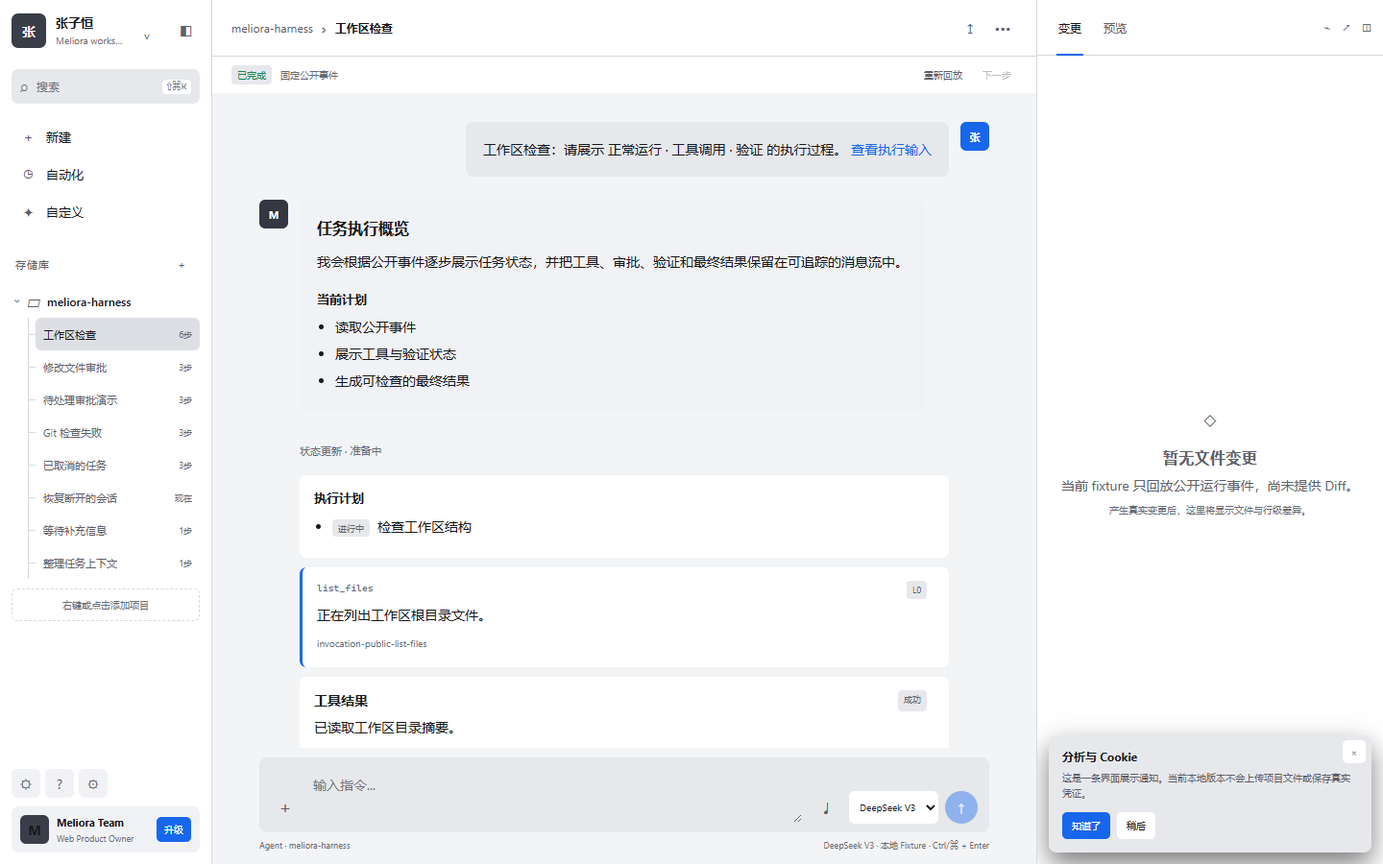
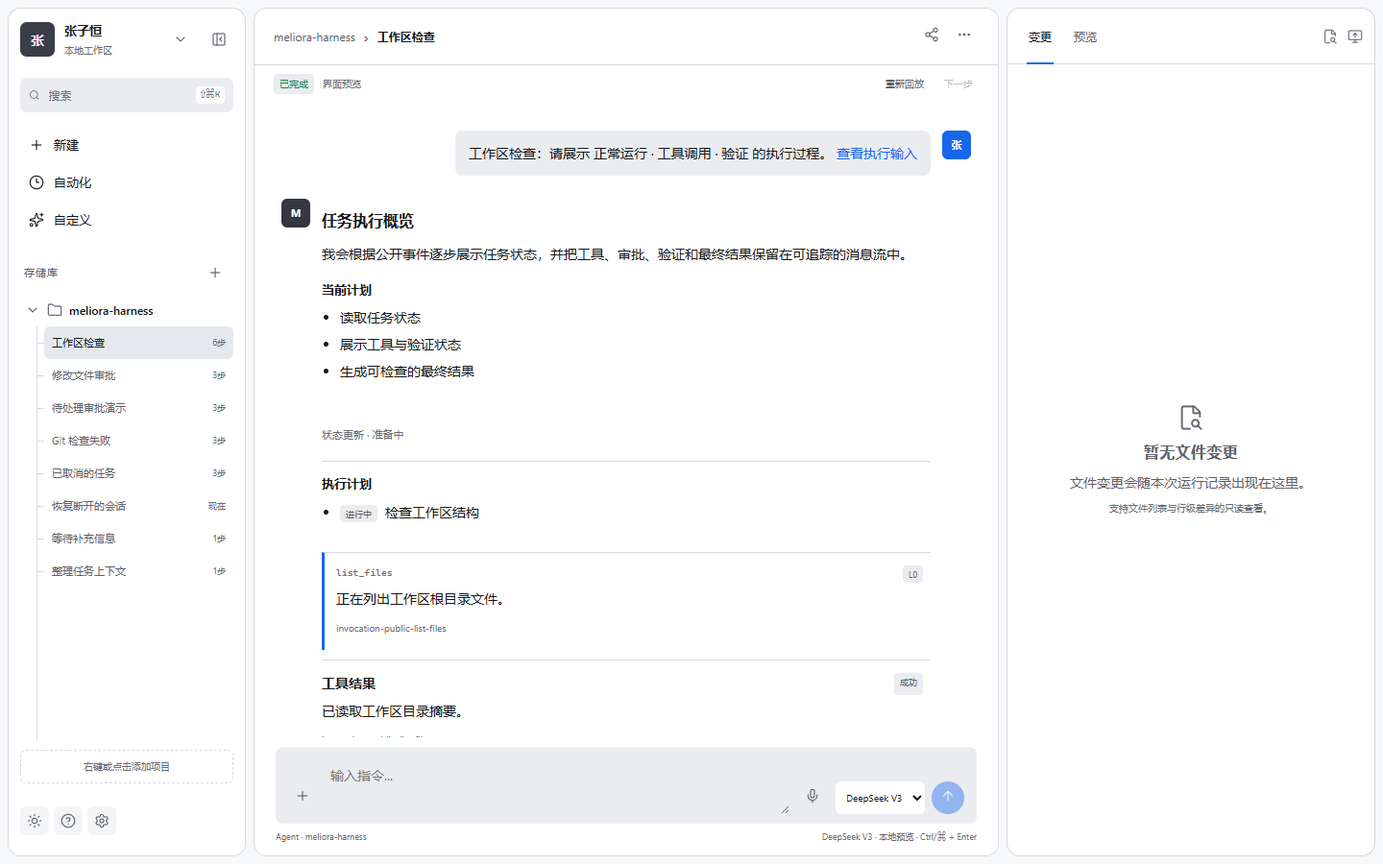
feat(web): integrate desktop workspace visuals

diff --git a/apps/web/src/main.tsx b/apps/web/src/main.tsx
@@ -1,5 +1,6 @@
 import React, { useEffect, useRef, useState } from "react";
 import { createRoot } from "react-dom/client";
+import { ArrowUp, Copy, Menu, Mic, MoreHorizontal, PanelRightOpen, Plus, Share2, Sparkles, ThumbsDown, ThumbsUp, X } from "lucide-react";
 import type { PublicRunEvent } from "../../../packages/agent-runtime/public-events";
 import { Sidebar } from "./Sidebar";
 import { RightPanel } from "./RightPanel";
@@ -31,7 +32,6 @@ function App() {
   const [collapsed, setCollapsed] = useState(false);
   const [mobilePanel, setMobilePanel] = useState<"nav" | "code" | null>(null);
   const [notice, setNotice] = useState("");
-  const [noticeVisible, setNoticeVisible] = useState(true);
   const [voiceActive, setVoiceActive] = useState(false);
   const [modelName, setModelName] = useState("DeepSeek V3");
   const [reaction, setReaction] = useState<"like" | "dislike" | "">("");
@@ -150,14 +150,14 @@ function App() {
     setLibrary(next);
     selectChat(next.projects.at(-1)!.chats[0]);
     setDialogMode(null);
-    setNotice("项目已加入本地项目库。当前演示不会上传或修改文件。");
+    setNotice("项目已加入本地项目库。");
   }
 
   function replay() {
     setEventCount(0);
     setDecision("");
     setPlaying(true);
-    setNotice("正在从固定公开事件开始回放。");
+    setNotice("正在回放本地预览状态。");
   }
 
   function send() {
@@ -184,7 +184,7 @@ function App() {
       case "tool_result_presented": return <section className={`event-card ${event.payload.status}`}><div><strong>工具结果</strong><span className="pill">{labels[event.payload.status]}</span></div><p>{event.payload.summary}</p><small>{event.payload.invocationId}</small></section>;
       case "approval_requested": {
         const expired = Boolean(event.payload.expiresAt && Date.parse(event.payload.expiresAt) <= Date.now());
-        return <section className="event-card approval"><h3>需要审批</h3><p>{event.payload.summary}</p><code>{event.payload.argumentsHash}</code>{expired && <p className="expired-approval">此历史审批已过期，当前仅供查看。</p>}<div className="inline-actions"><button className="primary" disabled={expired || Boolean(decision)} onClick={() => setDecision("已允许本次（演示，不会执行修改）。")}>允许本次</button><button disabled={expired || Boolean(decision)} onClick={() => setDecision("已拒绝（演示）。")}>拒绝</button></div>{decision && <p role="status">{decision}</p>}</section>;
+        return <section className="event-card approval"><h3>需要审批</h3><p>{event.payload.summary}</p><code>{event.payload.argumentsHash}</code>{expired && <p className="expired-approval">此历史审批已过期，当前仅供查看。</p>}<div className="inline-actions"><button className="primary" disabled={expired || Boolean(decision)} onClick={() => setDecision("已记录允许选择，当前预览不会执行修改。")}>允许本次</button><button disabled={expired || Boolean(decision)} onClick={() => setDecision("已记录拒绝选择，当前预览不会执行修改。")}>拒绝</button></div>{decision && <p role="status">{decision}</p>}</section>;
       }
       case "verification_updated": return <p className="event-line success">验证 · {labels[event.payload.status]} · {event.payload.verificationId}</p>;
       case "context_compacted": return <section className="event-card"><h3>上下文已整理</h3><p>{event.payload.summary}</p></section>;
@@ -200,15 +200,15 @@ function App() {
     <aside className="left-panel"><Sidebar library={library} collapsed={collapsed} theme={theme} userName={userName} userAvatar={userAvatar} onSelect={(id) => { openChat(id); setMobilePanel(null); }} onCollapse={() => window.innerWidth <= 768 ? setMobilePanel(null) : setCollapsed((value) => !value)} onNewAgent={() => { createAgent(); setMobilePanel(null); }} onNewProject={() => showDialog("project")} onTheme={setTheme} onAutomations={() => showDialog("automations")} onCustomize={() => showDialog("customize")} onReveal={() => setMobilePanel("nav")}/></aside>
 
     <main className="center-panel">
-      <header className="conversation-header"><button className="mobile-panel-button mobile-nav-trigger" aria-label="打开导航" onClick={() => setMobilePanel("nav")}>☰</button><div><span>{activeProject.name}</span><b>›</b><strong>{activeChat.title}</strong></div><nav aria-label="对话操作"><button className="mobile-panel-button mobile-code-trigger" aria-label="打开代码面板" onClick={() => setMobilePanel("code")}>⌘</button><button aria-label="分享" onClick={() => setNotice("分享功能等待真实服务接入。")}>↥</button><button aria-label="更多操作" onClick={() => setNotice("更多操作将在下一版接入。")}>•••</button></nav></header>
-      <div className="run-bar"><span className={`run-status ${runStatus}`}>{playing ? "生成中" : labels[runStatus]}</span><span>固定公开事件</span><button onClick={replay}>重新回放</button><button disabled={playing || eventCount >= source.length} onClick={() => setEventCount((count) => count + 1)}>下一步</button></div>
+      <header className="conversation-header"><button className="mobile-panel-button mobile-nav-trigger" aria-label="打开导航" onClick={() => setMobilePanel("nav")}><Menu /></button><div><span>{activeProject.name}</span><b>›</b><strong>{activeChat.title}</strong></div><nav aria-label="对话操作"><button className="mobile-panel-button mobile-code-trigger" aria-label="打开代码面板" onClick={() => setMobilePanel("code")}><PanelRightOpen /></button><button aria-label="分享" onClick={() => setNotice("分享将在连接协作服务后可用。")}><Share2 /></button><button aria-label="更多操作" onClick={() => setNotice("更多对话操作即将提供。")}><MoreHorizontal /></button></nav></header>
+      <div className="run-bar"><span className={`run-status ${runStatus}`}>{playing ? "生成中" : labels[runStatus]}</span><span>界面预览</span><button onClick={replay}>重新回放</button><button disabled={playing || eventCount >= source.length} onClick={() => setEventCount((count) => count + 1)}>下一步</button></div>
 
       <section className="message-stream" aria-label="消息流">
         <div className="message-column">
-          {showEmpty && <section className="timeline-empty" aria-labelledby="empty-title"><span aria-hidden="true">✦</span><h2 id="empty-title">开始一个新任务</h2><p>输入目标后，公开运行事件会在这里逐步呈现。</p><button onClick={() => composerInput.current?.focus()}>在输入框中开始</button></section>}
+          {showEmpty && <section className="timeline-empty" aria-labelledby="empty-title"><span aria-hidden="true"><Sparkles /></span><h2 id="empty-title">开始一个新任务</h2><p>输入目标后，任务状态会在这里逐步呈现。</p><button onClick={() => composerInput.current?.focus()}>在输入框中开始</button></section>}
           {messages.map((item) => <article className={`message ${item.role}`} key={item.id}>
             <span className="message-author">{item.role === "assistant" ? "M" : userAvatar}</span>
-            <div className="message-body">{item.role === "assistant" ? <><h2>任务执行概览</h2><p>{item.content}</p><h3>当前计划</h3><ul><li>读取公开事件</li><li>展示工具与验证状态</li><li>生成可检查的最终结果</li></ul><div className="message-actions"><button onClick={() => setNotice("已复制消息摘要（演示）。")}>□ 复制</button><button aria-pressed={reaction === "like"} onClick={() => setReaction("like")}>♡ 点赞</button><button aria-pressed={reaction === "dislike"} onClick={() => setReaction("dislike")}>▽ 点踩</button></div></> : <p>{item.content} <a href="#composer">查看执行输入</a></p>}</div>
+            <div className="message-body">{item.role === "assistant" ? <><h2>任务执行概览</h2><p>{item.content}</p><h3>当前计划</h3><ul><li>读取任务状态</li><li>展示工具与验证状态</li><li>生成可检查的最终结果</li></ul><div className="message-actions"><button onClick={() => setNotice("已复制消息摘要。")}><Copy />复制</button><button aria-pressed={reaction === "like"} onClick={() => setReaction("like")}><ThumbsUp />点赞</button><button aria-pressed={reaction === "dislike"} onClick={() => setReaction("dislike")}><ThumbsDown />点踩</button></div></> : <p>{item.content} <a href="#composer">查看执行输入</a></p>}</div>
           </article>)}
           {scenarioId === "reconnecting" && <aside className="reconnect-banner"><strong>连接恢复</strong><span>从事件序号 {resumePoint(scenarioId)} 之后继续，不创建新任务。</span></aside>}
           {showLoading && <section className="timeline-loading" aria-live="polite" aria-busy="true"><span className="loading-avatar"/><div><span/><span/><span/></div><p>{playing ? "正在读取公开事件…" : "等待公开事件…"}</p></section>}
@@ -216,23 +216,23 @@ function App() {
         </div>
       </section>
 
-      <footer className="composer-area">{notice && <p className="notice" role="status">{notice}</p>}<form onSubmit={(event) => { event.preventDefault(); send(); }}>
-        <button type="button" className="attachment-button" aria-label="添加附件" onClick={() => setNotice("附件功能等待文件服务接入。")}>＋</button>
+      <footer className="composer-area">{notice && <p className="notice" role="status">{notice}</p>}<form className={playing ? "is-thinking" : undefined} onSubmit={(event) => { event.preventDefault(); send(); }}>
+        <button type="button" className="attachment-button" aria-label="添加附件" onClick={() => setNotice("附件将在文件服务连接后可用。")}><Plus /></button>
         <label className="sr-only" htmlFor="composer">输入指令</label>
         <textarea ref={composerInput} id="composer" maxLength={20_000} value={draft} onChange={(event) => setDraft(event.target.value)} placeholder="输入指令..." onKeyDown={(event) => { if (event.key === "Enter" && (event.ctrlKey || event.metaKey) && !event.nativeEvent.isComposing) { event.preventDefault(); send(); } }}/>
-        <button type="button" className={`voice-button ${voiceActive ? "active" : ""}`} aria-label="语音输入" aria-pressed={voiceActive} onClick={() => setVoiceActive((value) => !value)}>♩</button>
+        <button type="button" className={`voice-button ${voiceActive ? "active" : ""}`} aria-label="语音输入" aria-pressed={voiceActive} onClick={() => setVoiceActive((value) => !value)}><Mic /></button>
         <label className="model-picker"><span className="sr-only">模型</span><select value={modelName} onChange={(event) => setModelName(event.target.value)}><option>DeepSeek V3</option><option>Kimi K2</option><option>MiniMax M2</option></select></label>
-        <button className="send-button" aria-label="发送" disabled={!draft.trim() || playing}>↑</button>
-      </form><div className="composer-meta"><span>Agent · {activeProject.name}</span><span>{modelName} · 本地 Fixture · Ctrl/⌘ + Enter</span></div></footer>
+        <button className="send-button" aria-label="发送" disabled={!draft.trim() || playing}><ArrowUp /></button>
+      </form><div className="composer-meta"><span>Agent · {activeProject.name}</span><span>{modelName} · 本地预览 · Ctrl/⌘ + Enter</span></div></footer>
     </main>
 
     <button className="mobile-backdrop" aria-label="关闭侧面板" onClick={() => setMobilePanel(null)}/>
-    <aside className="right-panel"><button className="mobile-close" aria-label="关闭代码面板" onClick={() => setMobilePanel(null)}>×</button><RightPanel projectName={activeProject.name} chatTitle={activeChat.title} noticeVisible={noticeVisible} onCloseNotice={() => setNoticeVisible(false)}/></aside>
+    <aside className="right-panel"><button className="mobile-close" aria-label="关闭代码面板" onClick={() => setMobilePanel(null)}><X /></button><RightPanel projectName={activeProject.name} chatTitle={activeChat.title}/></aside>
 
     <dialog ref={settingsDialog} className="settings-dialog" onCancel={() => setDialogMode(null)}>
-      <button className="dialog-close" onClick={() => setDialogMode(null)}>×</button>
+      <button className="dialog-close" aria-label="关闭设置" onClick={() => setDialogMode(null)}><X /></button>
       {dialogMode === "project" && <><h2>添加项目</h2><p>当前纯浏览器版本不申请工作区目录权限。工作区选择将在 Runtime/Server 能力接入后提供。</p><form onSubmit={(event) => { event.preventDefault(); createProject(projectName, "manual"); }}><label htmlFor="project-name">项目名称</label><input id="project-name" value={projectName} maxLength={200} onChange={(event) => setProjectName(event.target.value)} placeholder="例如：个人网站"/><button className="primary" disabled={!projectName.trim()}>创建项目</button></form><small>这里只保存项目名称，不读取、上传或修改本地文件。</small></>}
-      {dialogMode === "automations" && <><h2>自动化</h2><p>这里将展示定时任务和运行状态。当前版本尚未连接调度服务。</p><button onClick={() => { setDialogMode(null); createAgent(); }}>先开始一个对话</button></>}
+      {dialogMode === "automations" && <><h2>自动化</h2><p>这里将展示定时任务和运行状态。连接调度服务后即可管理自动化任务。</p><button onClick={() => { setDialogMode(null); createAgent(); }}>先开始一个对话</button></>}
       {dialogMode === "customize" && <><h2>自定义</h2><form onSubmit={(event) => { event.preventDefault(); setUserName(profileName.trim() || "本地用户"); setUserAvatar(profileAvatar); setDialogMode(null); }}><label htmlFor="user-name">用户昵称</label><input id="user-name" value={profileName} maxLength={32} onChange={(event) => setProfileName(event.target.value)}/><label>头像</label><div className="avatar-options">{["张", "M", "🌱", "🐱", "🚀"].map((avatar) => <button type="button" key={avatar} aria-pressed={profileAvatar === avatar} onClick={() => setProfileAvatar(avatar)}>{avatar}</button>)}</div><button className="primary">保存</button></form></>}
     </dialog>
   </div>;

diff --git a/apps/web/src/Sidebar.tsx b/apps/web/src/Sidebar.tsx
@@ -1,4 +1,19 @@
 import React, { useEffect, useRef, useState } from "react";
+import {
+  ChevronDown,
+  ChevronRight,
+  Clock3,
+  Folder,
+  HelpCircle,
+  Moon,
+  PanelLeftClose,
+  PanelLeftOpen,
+  Plus,
+  Search,
+  Settings,
+  Sparkles,
+  Sun,
+} from "lucide-react";
 import type { Library } from "./projects";
 
 interface SidebarProps {
@@ -64,28 +79,28 @@ export function Sidebar(props: SidebarProps) {
   return <>
       <div className="sidebar-user">
       <span className="user-avatar" role="img" aria-label={`${userName} 的头像`}>{props.userAvatar}</span>
-      <span className="user-copy"><strong>{userName}</strong><small>Meliora workspace</small></span>
-      <button className="icon-button" aria-label="打开用户菜单" onClick={props.onCustomize}>⌄</button>
-      <button className="icon-button collapse-button" aria-label={props.collapsed ? "展开侧栏" : "收起侧栏"} aria-expanded={!props.collapsed} onClick={props.onCollapse}>◧</button>
+      <span className="user-copy"><strong>{userName}</strong><small>本地工作区</small></span>
+      <button className="icon-button" aria-label="打开用户菜单" onClick={props.onCustomize}><ChevronDown /></button>
+      <button className="icon-button collapse-button" aria-label={props.collapsed ? "展开侧栏" : "收起侧栏"} aria-expanded={!props.collapsed} onClick={props.onCollapse}>{props.collapsed ? <PanelLeftOpen /> : <PanelLeftClose />}</button>
     </div>
 
     <div className="sidebar-scroll">
-      <label className="search-field"><span aria-hidden="true">⌕</span><input ref={searchInput} aria-label="搜索项目和对话" placeholder="搜索" value={search} onChange={(event) => setSearch(event.target.value)}/><kbd title="Ctrl/⌘ + Shift + K">⇧⌘K</kbd></label>
+      <label className="search-field"><Search aria-hidden="true"/><input ref={searchInput} aria-label="搜索项目和对话" placeholder="搜索" value={search} onChange={(event) => setSearch(event.target.value)}/><kbd title="Ctrl/⌘ + Shift + K">⇧⌘K</kbd></label>
       <nav className="quick-actions" aria-label="快捷操作">
-        <button aria-label="新建对话" onClick={props.onNewAgent}><span>＋</span>新建</button>
-        <button onClick={props.onAutomations}><span>◷</span>自动化</button>
-        <button onClick={props.onCustomize}><span>✦</span>自定义</button>
+        <button aria-label="新建对话" onClick={props.onNewAgent}><Plus />新建</button>
+        <button onClick={props.onAutomations}><Clock3 />自动化</button>
+        <button onClick={props.onCustomize}><Sparkles />自定义</button>
       </nav>
 
       <section className="repository-list" aria-label="存储库" ref={libraryRegion} tabIndex={0}
         onContextMenu={(event) => { event.preventDefault(); openProjectMenu(event.clientX, event.clientY); }}
         onKeyDown={(event) => { if (event.key === "ContextMenu" || (event.shiftKey && event.key === "F10")) { event.preventDefault(); const rect = event.currentTarget.getBoundingClientRect(); openProjectMenu(rect.left + 18, rect.top + 38); } }}>
-        <div className="section-title"><span>存储库</span><button className="icon-button" aria-label="添加存储库" onClick={props.onNewProject}>＋</button></div>
+        <div className="section-title"><span>存储库</span><button className="icon-button" aria-label="添加存储库" onClick={props.onNewProject}><Plus /></button></div>
         {visibleProjects.map((project) => {
           const expanded = !closedProjects.includes(project.id) || Boolean(query);
           return <div className="repository" key={project.id}>
             <button className="repository-title" aria-expanded={expanded} onClick={() => setClosedProjects((ids) => ids.includes(project.id) ? ids.filter((id) => id !== project.id) : [...ids, project.id])}>
-              <span className={`chevron ${expanded ? "expanded" : ""}`}>›</span><span aria-hidden="true">▱</span><strong>{project.name}</strong>
+              <span className={`chevron ${expanded ? "expanded" : ""}`}>{expanded ? <ChevronDown /> : <ChevronRight />}</span><Folder aria-hidden="true"/><strong>{project.name}</strong>
             </button>
             <div className={`chat-tree ${expanded ? "expanded" : ""}`}><nav aria-label={`${project.name} 的对话`}>
               {project.chats.filter((chat) => !query || project.name.toLocaleLowerCase().includes(query) || chat.title.toLocaleLowerCase().includes(query)).map((chat) =>
@@ -100,24 +115,23 @@ export function Sidebar(props: SidebarProps) {
       </section>
     </div>
 
-    <div className="sidebar-footer">
+      <div className="sidebar-footer">
       <div className="footer-tools">
-        <button className="icon-button" aria-label={props.theme === "dark" ? "切换到浅色主题" : "切换到深色主题"} onClick={() => props.onTheme(props.theme === "dark" ? "light" : "dark")}>{props.theme === "dark" ? "☾" : "☼"}</button>
-        <button className="icon-button" aria-label="支持">?</button>
-        <button className="icon-button" aria-label="设置" onClick={props.onCustomize}>⚙</button>
+        <button className="icon-button" aria-label={props.theme === "dark" ? "切换到浅色主题" : "切换到深色主题"} onClick={() => props.onTheme(props.theme === "dark" ? "light" : "dark")}>{props.theme === "dark" ? <Moon /> : <Sun />}</button>
+        <button className="icon-button" aria-label="支持"><HelpCircle /></button>
+        <button className="icon-button" aria-label="设置" onClick={props.onCustomize}><Settings /></button>
       </div>
       <nav className="collapsed-rail" aria-label="折叠导航">
-        <button aria-label="新建对话" title="新建对话" onClick={props.onNewAgent}>＋</button>
-        <button aria-label="存储库" title="存储库" onClick={props.onNewProject}>▱</button>
-        <button aria-label="自动化" title="自动化" onClick={props.onAutomations}>◷</button>
-        <button aria-label="设置" title="设置" onClick={props.onCustomize}>⚙</button>
+        <button aria-label="新建对话" title="新建对话" onClick={props.onNewAgent}><Plus /></button>
+        <button aria-label="存储库" title="存储库" onClick={props.onNewProject}><Folder /></button>
+        <button aria-label="自动化" title="自动化" onClick={props.onAutomations}><Clock3 /></button>
+        <button aria-label="设置" title="设置" onClick={props.onCustomize}><Settings /></button>
       </nav>
-      <div className="team-card"><span className="team-avatar">M</span><span><strong>Meliora Team</strong><small>Web Product Owner</small></span><button>升级</button></div>
-    </div>
+      </div>
 
     <dialog ref={projectMenu} className="project-menu" aria-label="存储库操作" style={{left: menuPosition.left, top: menuPosition.top}}
       onClick={(event) => { if (event.target === event.currentTarget) projectMenu.current?.close(); }} onClose={() => libraryRegion.current?.focus()}>
-      <button onClick={() => { projectMenu.current?.close(); props.onNewProject(); }}>＋ 创建项目</button>
+      <button onClick={() => { projectMenu.current?.close(); props.onNewProject(); }}><Plus /> 创建项目</button>
       <button onClick={() => projectMenu.current?.close()}>取消</button>
     </dialog>
   </>;

diff --git a/apps/web/src/dark-shell.css b/apps/web/src/dark-shell.css
@@ -36,3 +36,24 @@ dialog{border:0;color:var(--text);background:var(--panel-2)}dialog::backdrop{bac
 @media(width < 1100px){.app-shell{grid-template-columns:230px minmax(520px,1fr) 0}.app-shell.sidebar-collapsed{grid-template-columns:56px minmax(520px,1fr) 0}.right-panel{display:flex;position:fixed;z-index:30;top:0;right:0;bottom:0;width:min(360px,90vw);transform:translateX(105%);transition:transform 180ms ease}.app-shell.mobile-code-open .right-panel{transform:translateX(0)}.mobile-code-open .mobile-backdrop{display:block;position:fixed;inset:0;z-index:25;background:#0009}.mobile-code-trigger,.right-panel .mobile-close{display:block}.right-panel .mobile-close{position:absolute;z-index:4;right:7px;top:7px;width:30px;height:30px;border-radius:6px;background:var(--field)}}
 @media(max-width:768px){.app-shell,.app-shell.sidebar-collapsed{display:block}.left-panel,.right-panel{display:flex;position:fixed;z-index:30;top:0;bottom:0;width:min(300px,86vw);transition:transform 180ms ease}.left-panel{left:0;transform:translateX(-105%);align-items:stretch}.right-panel{right:0;transform:translateX(105%)}.app-shell.mobile-nav-open .left-panel,.app-shell.mobile-code-open .right-panel{transform:translateX(0)}.mobile-nav-open .mobile-backdrop{display:block;position:fixed;inset:0;z-index:25;background:#0009}.mobile-nav-trigger{display:block}.sidebar-collapsed .sidebar-user{padding:10px 12px;justify-content:flex-start}.sidebar-collapsed .user-copy,.sidebar-collapsed .sidebar-user>.icon-button:not(.collapse-button),.sidebar-collapsed .sidebar-scroll,.sidebar-collapsed .sidebar-footer{display:flex}.sidebar-collapsed .sidebar-scroll{display:block}.sidebar-collapsed .user-copy{display:block}.sidebar-collapsed .sidebar-footer{display:block}.sidebar-collapsed .footer-tools,.sidebar-collapsed .team-card{display:flex}.sidebar-collapsed .collapse-button{position:static}.sidebar-collapsed .collapsed-rail{display:none}.center-panel{height:100vh;border:0}.message-stream{padding:20px 12px}.event-flow{margin-inline:0}.message-body{max-width:90%}.composer-area{padding-inline:8px}.composer-area form{grid-template-columns:32px minmax(0,1fr) 32px 38px}.model-picker{display:none}.conversation-header{padding-inline:8px;gap:4px}.conversation-header>div{flex:1}.run-bar{padding-inline:12px}.message-actions{position:static;opacity:1;transform:none;margin-top:10px}}
 @media(prefers-reduced-motion:reduce){.app-shell,.chat-tree,.chevron,.message-actions{transition:none}.timeline-loading span{animation:none}}
+
+/* Desktop workspace integration: framed at wide widths, contiguous at the 1100px floor. */
+:root{--workspace-gap:8px}
+:root[data-theme="light"]{--page:#f7f8fa;--panel:#fff;--panel-2:#f4f5f7;--field:#eaecf0;--hover:#e5e8ed}
+.app-shell{grid-template-columns:248px minmax(0,1fr) 384px;gap:var(--workspace-gap);height:100vh;padding:var(--workspace-gap);background:var(--page);overflow:hidden}
+.app-shell.sidebar-collapsed{grid-template-columns:56px minmax(0,1fr) 384px}
+.left-panel,.center-panel,.right-panel{height:calc(100vh - (var(--workspace-gap) * 2));border:1px solid var(--line);border-radius:14px;background:var(--panel)}
+.left-panel,.center-panel,.right-panel{font-size:14px;line-height:1.5}
+.left-panel svg,.center-panel svg,.right-panel svg{width:16px;height:16px;stroke-width:1.7}
+.icon-button{display:grid;place-items:center}.quick-actions button svg,.repository-title>svg{width:16px;height:16px;flex:0 0 auto}.chevron{display:grid;place-items:center;width:16px;height:16px}.chevron.expanded{transform:none}
+.sidebar-scroll{display:flex;flex-direction:column;overflow:hidden}.repository-list{display:flex;min-height:0;flex:1;flex-direction:column;overflow:hidden}.repository-list>.repository{display:flex;min-height:0;flex-direction:column}.repository-list>.repository:has(.chat-tree.expanded){flex:1}.chat-tree.expanded{min-height:0;flex:1}.chat-tree.expanded>nav{height:100%;overflow-y:auto;overscroll-behavior:contain;scrollbar-width:thin;scrollbar-color:var(--line) transparent}.add-repository{flex:0 0 auto}
+.center-panel{border-inline:1px solid var(--line)}.conversation-header,.run-bar,.composer-area{background:var(--panel)}
+.message-body{padding:10px 0;border-radius:0;background:transparent}.message.user .message-body{padding:12px 14px;border-radius:8px;background:var(--field)}.message-body h3{margin-top:14px}.message-actions{align-items:center}.message-actions button{display:inline-flex;align-items:center;gap:4px}.message-actions button svg{width:13px;height:13px}
+.event-card{padding:13px 0;border-radius:0;background:transparent;border-top:1px solid var(--line)}.event-card.completed,.event-card.failed,.event-card.approval,.tool-card{padding-left:12px}.event-card.approval{padding:14px;border:1px solid var(--line);border-left:3px solid #e0a739;border-radius:8px;background:var(--field)}
+.composer-area form{border:1px solid transparent}.composer-area form.is-thinking{position:relative;overflow:hidden}.composer-area form.is-thinking:before{content:"";position:absolute;top:0;bottom:0;left:-35%;width:32%;background:linear-gradient(90deg,transparent,#1767ed30,transparent);animation:composer-thinking 1.5s ease-in-out infinite}.composer-area form.is-thinking>*{position:relative}@keyframes composer-thinking{to{left:110%}}
+.right-tools{display:flex;align-items:center;gap:10px}.preview-empty>svg,.changes-empty>svg{width:28px;height:28px;color:var(--muted)}.project-menu button{display:flex;align-items:center;gap:7px}
+
+@media (1100px <= width < 1280px){.app-shell{grid-template-columns:220px minmax(0,1fr) 360px}.app-shell.sidebar-collapsed{grid-template-columns:56px minmax(0,1fr) 360px}}
+@media (width < 1100px){.app-shell{grid-template-columns:220px minmax(0,1fr) 0}.app-shell.sidebar-collapsed{grid-template-columns:56px minmax(0,1fr) 0}.right-panel{top:var(--workspace-gap);right:var(--workspace-gap);bottom:var(--workspace-gap);height:auto;width:min(360px,calc(100vw - (var(--workspace-gap) * 2)));border-radius:14px}}
+@media (max-width:768px){.app-shell,.app-shell.sidebar-collapsed{display:block;padding:var(--workspace-gap)}.center-panel{height:calc(100vh - (var(--workspace-gap) * 2));border:1px solid var(--line);border-radius:14px}.left-panel,.right-panel{top:var(--workspace-gap);bottom:var(--workspace-gap);height:auto;border-radius:14px}.left-panel{left:var(--workspace-gap)}.right-panel{right:var(--workspace-gap)}.message-stream{padding:20px 12px}.event-flow{margin-inline:0}.message-body{max-width:90%}.composer-area{padding-inline:8px}.composer-area form{grid-template-columns:32px minmax(0,1fr) 32px 38px}.model-picker{display:none}.conversation-header{padding-inline:8px;gap:4px}.conversation-header>div{flex:1}.run-bar{padding-inline:12px}.message-actions{position:static;opacity:1;transform:none;margin-top:10px}}
+@media(prefers-reduced-motion:reduce){.composer-area form.is-thinking:before{animation:none;left:31%;opacity:.55}}

diff --git a/apps/web/src/RightPanel.tsx b/apps/web/src/RightPanel.tsx
@@ -1,10 +1,9 @@
 import React, { useRef, useState } from "react";
+import { FileSearch2, MonitorUp } from "lucide-react";
 
 interface RightPanelProps {
   projectName: string;
   chatTitle: string;
-  onCloseNotice: () => void;
-  noticeVisible: boolean;
 }
 
 export function RightPanel(props: RightPanelProps) {
@@ -24,14 +23,8 @@ export function RightPanel(props: RightPanelProps) {
     <div className="right-tabs" role="tablist" aria-label="右侧面板">
       <button ref={changesTab} role="tab" aria-selected={activeTab === "changes"} tabIndex={activeTab === "changes" ? 0 : -1} onKeyDown={selectAdjacentTab} onClick={() => setActiveTab("changes")}>变更</button>
       <button ref={previewTab} role="tab" aria-selected={activeTab === "preview"} tabIndex={activeTab === "preview" ? 0 : -1} onKeyDown={selectAdjacentTab} onClick={() => setActiveTab("preview")}>预览</button>
-      <span className="right-tools">⌁　↗　◫</span>
+      <span className="right-tools" aria-hidden="true"><FileSearch2 /><MonitorUp /></span>
     </div>
-    {activeTab === "changes" ? <div className="changes-empty" role="status"><span aria-hidden="true">◇</span><h3>暂无文件变更</h3><p>当前 fixture 只回放公开运行事件，尚未提供 Diff。</p><small>产生真实变更后，这里将显示文件与行级差异。</small></div> : <div className="preview-empty"><span>◫</span><h3>浏览器预览</h3><p>{props.projectName} / {props.chatTitle}</p><small>连接本地预览服务后在这里显示页面。</small></div>}
-    {props.noticeVisible && <aside className="privacy-notice" role="status">
-      <button className="notice-close" aria-label="关闭通知" onClick={props.onCloseNotice}>×</button>
-      <h3>分析与 Cookie</h3>
-      <p>这是一条界面展示通知。当前本地版本不会上传项目文件或保存真实凭证。</p>
-      <div><button className="primary" onClick={props.onCloseNotice}>知道了</button><button onClick={props.onCloseNotice}>稍后</button></div>
-    </aside>}
+    {activeTab === "changes" ? <div className="changes-empty" role="status"><FileSearch2 aria-hidden="true"/><h3>暂无文件变更</h3><p>文件变更会随本次运行记录出现在这里。</p><small>支持文件列表与行级差异的只读查看。</small></div> : <div className="preview-empty"><MonitorUp aria-hidden="true"/><h3>浏览器预览</h3><p>{props.projectName} / {props.chatTitle}</p><small>连接本地预览服务后在这里显示页面。</small></div>}
   </>;
 }

diff --git a/apps/web/verification/RESULTS.md b/apps/web/verification/RESULTS.md
@@ -40,3 +40,13 @@
 - 最新构建通过；11 项单元/回放测试通过；npm audit 为 0 漏洞；浏览器无页面异常、console error、失败请求或错误资源响应。
 - 当前 fixtures 不含 Diff，右栏展示明确空态，不显示示例文件或虚构增删统计。
 - 项目入口只创建前端演示项目，不调用 `showDirectoryPicker()`；工作区选择等待 Runtime/Server 提供 capability。
+
+## 桌面视觉集成（2026-09-16）
+
+Base：`origin/main@4ec5207a`（PR #35 Live Adapter 已在基线中）；未改动 `live-*`、共享契约、后端或 Harmony 范围。
+
+- 手工迁移三栏工作台的视觉价值，未 cherry-pick 旧视觉分支；图标统一为 `lucide-react@1.46.0`，不保留手写 SVG 图标组件。
+- 删除普通界面的 Cookie 展示提示、升级与 `Web Product Owner` 模板残留，并移除面向用户的 Fixture 工程文案；fixture 仍仅用于受测的回放数据层。
+- 收敛中心区：助手消息采用留白层级，工具与结果默认使用分隔线，仅审批保留有边界的决策面板。
+- Chrome headless 浏览器检查通过：1440/1280 为 248px 左栏 + 384px 右栏；1100 为 220px + 360px 三栏；1099 起右栏为 Drawer；768/390 无横向溢出。检查同时覆盖键盘 Drawer/Tab、五类 PublicRunEvent 回放、HTML 文本转义与无页面/控制台/资源错误。
+- `npm test` 27/27、`npm run build`、`npm audit`（0 vulnerabilities）通过。构建中 Vite 对 `lucide-react` 的 `use client` 指令给出已忽略提示，不影响产物或浏览器检查。
